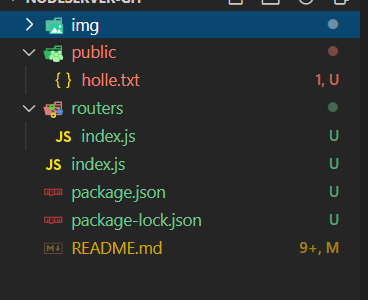
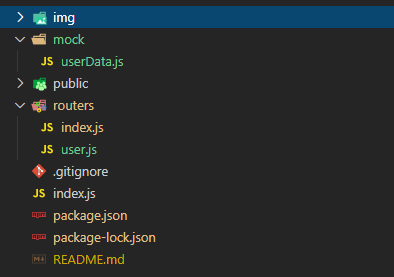
集成mockjs

diff --git a/index.js b/index.js
@@ -7,7 +7,7 @@ const cache = apicache.middleware
 // 引入路由
 const routes = require('./routers')
 //实例化
-const app = express() 
+const app = express()
 
 // 跨域设置
 app.all("*", function (req, res, next) {
@@ -32,8 +32,19 @@ app.use('/static', express.static(path.resolve(__dirname, "public")))
 //注册路由配置
 app.use(routes)
 
-//启动监听端口
-const port = 3000;
-app.listen(port, () => {
-  console.log(`server running @ http://localhost:${port}`)
+//启动监听端口 
+app.set('port', process.env.PORT || 3000);
+const server = app.listen(app.get('port'), () => {
+  console.log('┌───────────────────────────────────────────────┐');
+  console.log('│                                               │');
+  console.log('│   Serving!                                    │');
+  console.log('│                                               │');
+  console.log('│   - Local:            http://localhost:' + app.get('port') + '   │');
+  console.log('│   - On Your Network:  http://127.0.0.1:' + app.get('port') + '   │');
+  console.log('│                                               │');
+  console.log('│   Express server listening on:                │');
+  console.log('│                                               │');
+  console.log('│   - port:               ' + server.address().port + '                  │');
+  console.log('│                                               │');
+  console.log('└───────────────────────────────────────────────┘');
 })

diff --git a/mock/userData.js b/mock/userData.js
@@ -1,0 +1,26 @@
+const Mock = require("mockjs")
+
+const users = Mock.mock({
+  status: '0',
+  title: 'Users',
+  result: 'success',
+  'data|20': [
+    {
+      id: '@id',//随机id
+      name: '@name',//随机名称
+      nickName: '@last', //随机昵称
+      phone: /^1[34578]\d{9}$/,//随机电话号码
+      'age|11-99': 1,//年龄
+      address: '@county(true)',//随机地址
+      email: '@email',//随机邮箱
+      isMale: '@boolean',//随机性别
+      createTime: '@datetime',//创建时间
+      avatar () {
+        //用户头像
+        return Mock.Random.image('100×100', Mock.Random.color(), '#757575', 'png', this.nickName)
+      }
+    }
+  ]
+})
+
+module.exports = users

diff --git a/routers/index.js b/routers/index.js
@@ -2,7 +2,9 @@
 const express = require('express')
 //
 const router = express.Router()
-//
+//引入user router
+const user =require('./user.js')(router)
+
 router.get('/', (req, res, next) => {
   res.json({
     status: '0',
@@ -12,4 +14,5 @@ router.get('/', (req, res, next) => {
   })
 })
 //
+
 module.exports =router;

diff --git a/routers/user.js b/routers/user.js
@@ -1,0 +1,7 @@
+const userData = require('../mock/userData')
+
+module.exports = (router) => {
+  router.get('/api/user', (req, res, next) => {
+    res.json(userData)
+  })
+}

diff --git a/README.md b/README.md
@@ -1,14 +1,17 @@
 # NodeServer
 
-### Node: 最简单的node server
+### Express 集成 Mock 实现Api服务器
 #### 项目结构
 <img src="./img/1.png" height="234"/>  <br />
 
 文件  <br />
+* mock
+* --userData.js
 * pubilc
 * --holle.txt
 * routers
 * --index.js
+* --user.js
 * index.js
 * package.json
 
@@ -19,6 +22,8 @@ $ node -v
 ```
 <img src="./img/2.png" width="360" />  <br />
 
+#### mockjs wiki
+* mockjs 的wiki https://github.com/nuysoft/Mock/wiki
 
 ### index.js
 ```
@@ -31,7 +36,7 @@ const cache = apicache.middleware
 // 引入路由
 const routes = require('./routers')
 //实例化
-const app = express() 
+const app = express()
 
 // 跨域设置
 app.all("*", function (req, res, next) {
@@ -56,10 +61,21 @@ app.use('/static', express.static(path.resolve(__dirname, "public")))
 //注册路由配置
 app.use(routes)
 
-//启动监听端口
-const port = 3000;
-app.listen(port, () => {
-  console.log(`server running @ http://localhost:${port}`)
+//启动监听端口 
+app.set('port', process.env.PORT || 3000);
+const server = app.listen(app.get('port'), () => {
+  console.log('┌───────────────────────────────────────────────┐');
+  console.log('│                                               │');
+  console.log('│   Serving!                                    │');
+  console.log('│                                               │');
+  console.log('│   - Local:            http://localhost:' + app.get('port') + '   │');
+  console.log('│   - On Your Network:  http://127.0.0.1:' + app.get('port') + '   │');
+  console.log('│                                               │');
+  console.log('│   Express server listening on:                │');
+  console.log('│                                               │');
+  console.log('│   - port:               ' + server.address().port + '                  │');
+  console.log('│                                               │');
+  console.log('└───────────────────────────────────────────────┘');
 })
 ```
 ### routers/index.js
@@ -69,7 +85,9 @@ app.listen(port, () => {
 const express = require('express')
 //
 const router = express.Router()
-//
+//引入user router
+const user =require('./user.js')(router)
+
 router.get('/', (req, res, next) => {
   res.json({
     status: '0',
@@ -109,14 +127,19 @@ module.exports =router;
   "license": "ISC",
   "dependencies": {
     "apicache": "^1.5.3",
-    "express": "^4.17.1"
+    "express": "^4.17.1",
+    "mockjs": "^1.1.0"
   }
 }
 
 ```
 
 如果不想增加更多配置, 可以命令行 node index 不用配置package.json
-
+###  使用示例
+#### 安装
+```
+$ npm install
+```
 #### 启动
 ```
 $ npm run startServer //启动server
@@ -130,3 +153,9 @@ $ npm run startServer //启动server
 * http://localhost:3000/static/holle.txt
 
 <img src="./img/5.png" width="396" />  <br />
+
+### User 测试数据访问
+
+* http://localhost:3000/api/user
+
+<img src="./img/6.png" width="396" />  <br />
